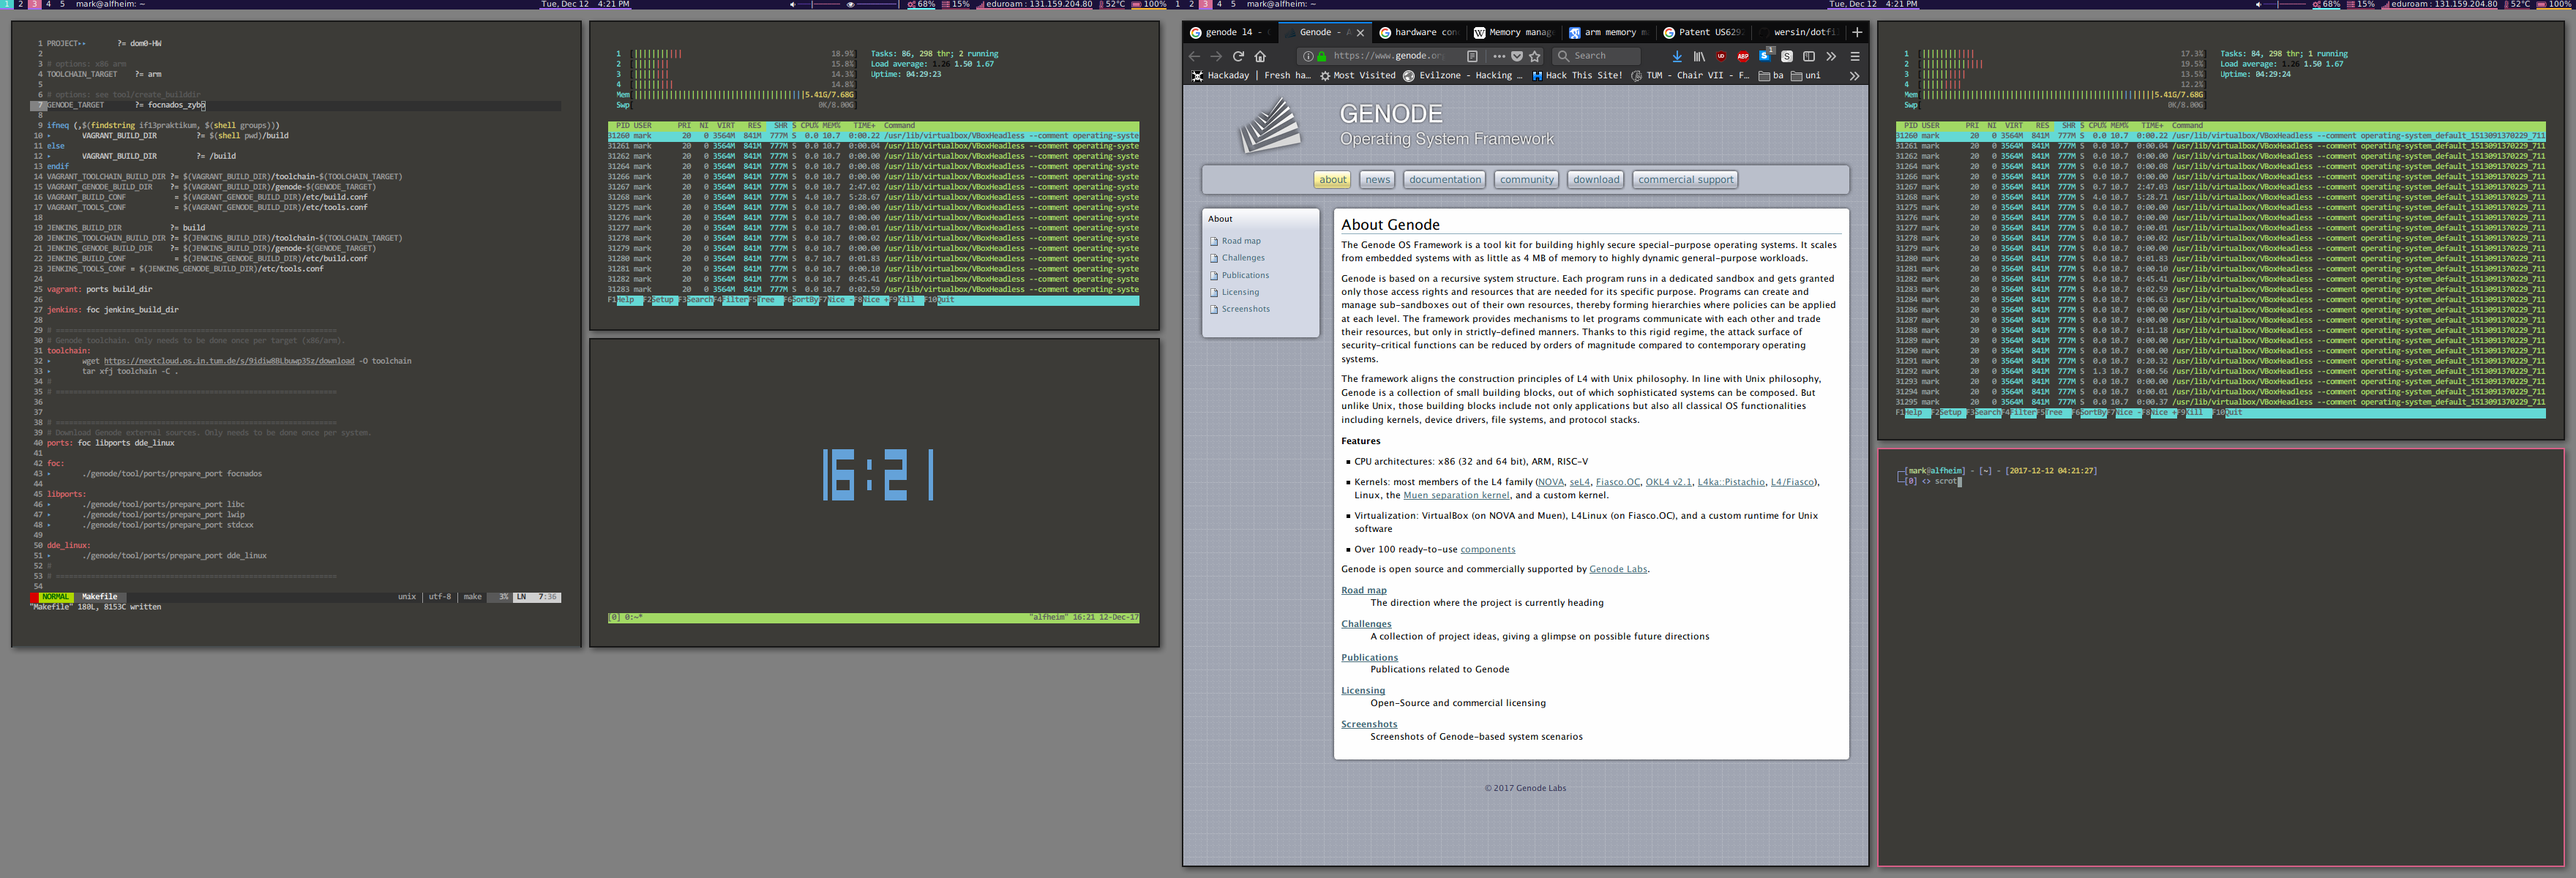
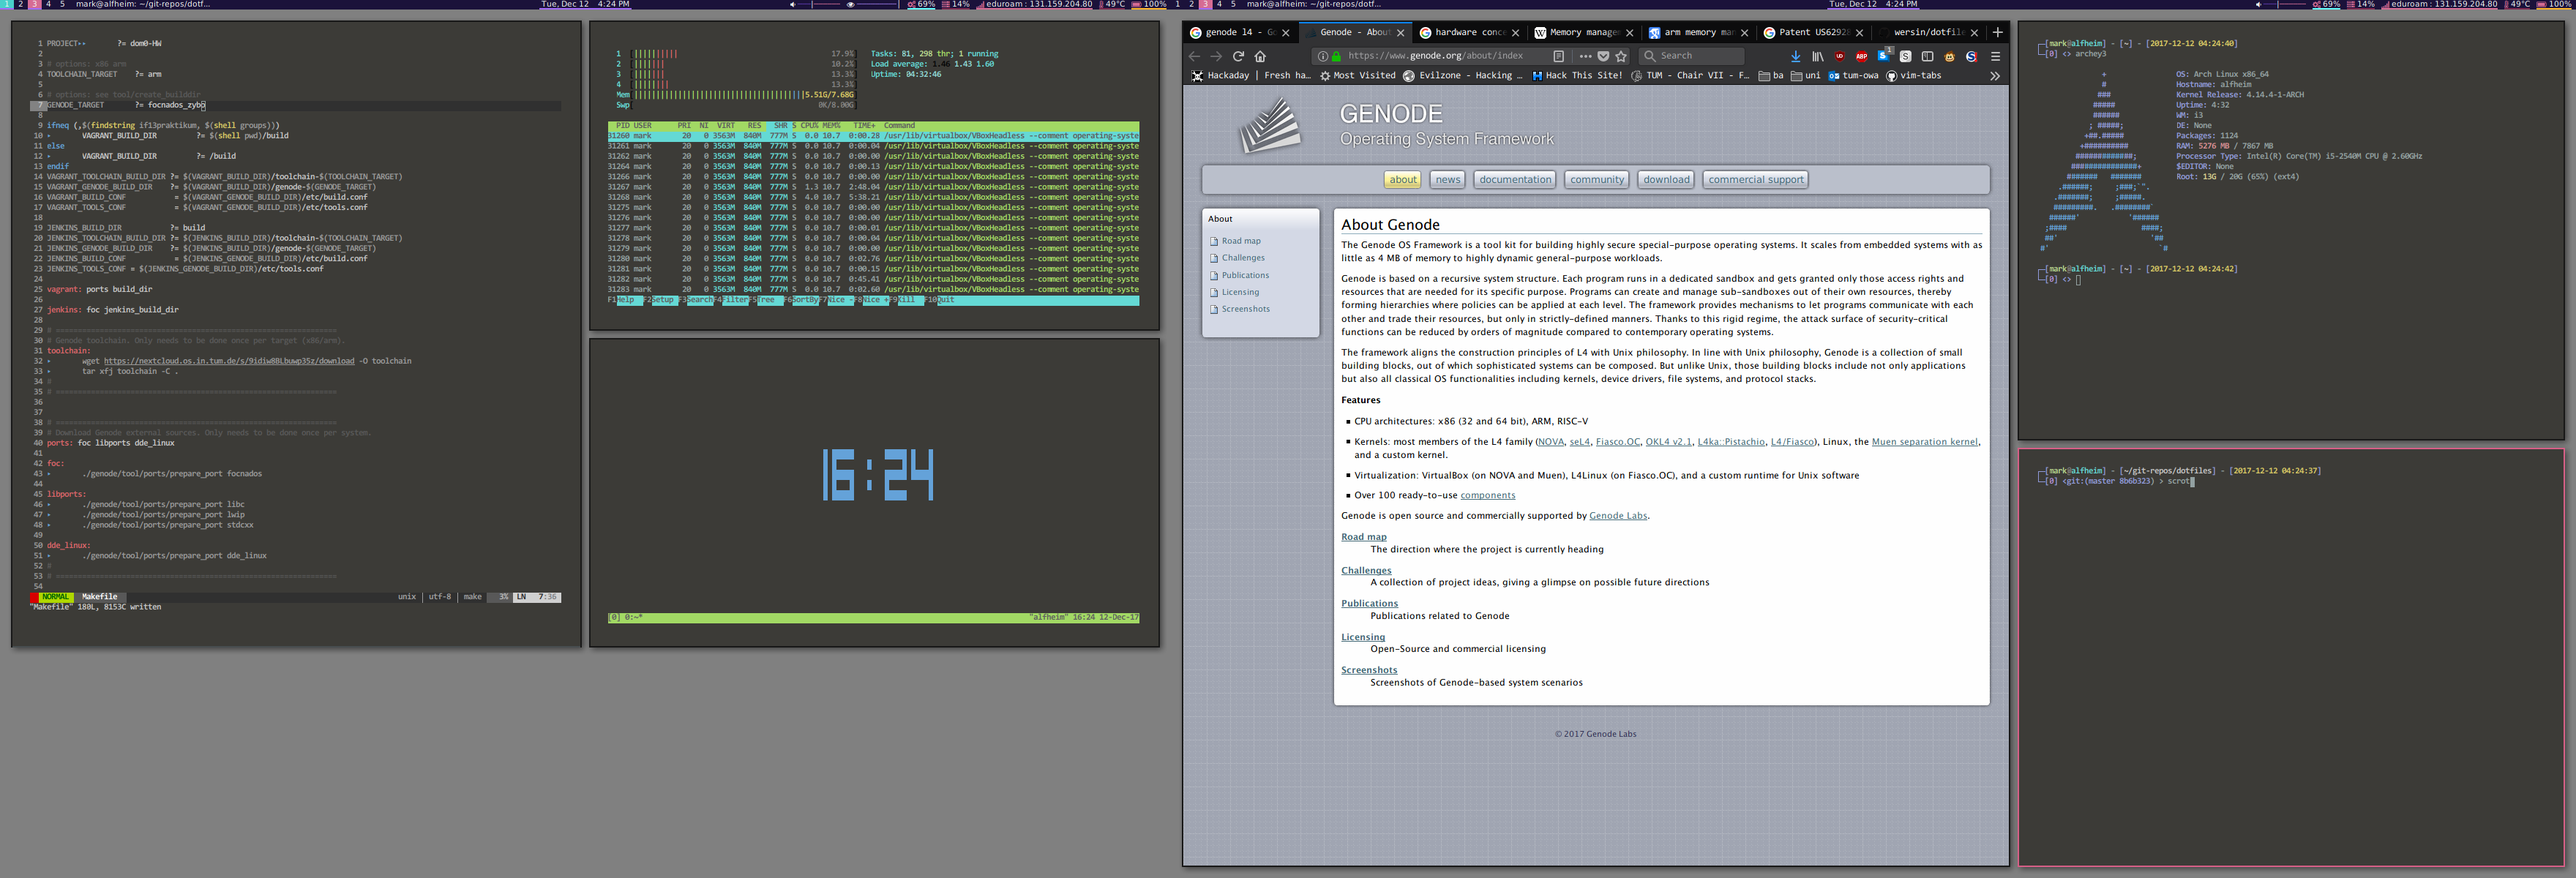
update scrot and readme

Changed region(s): [[0.5, 0.0, 1.0, 0.9867], [0.3438, 0.5242, 0.375, 0.555]]

diff --git a/README.md b/README.md
@@ -1,5 +1,5 @@
 # dotfiles
-these are some of the dotfiles for my setup i am currently using, as for now (02.02.2017)
+these are some of the dotfiles for my setup i am currently using, as for now (12.12.2017)
 
 some helpful sites for terminal customization:
 
@@ -9,4 +9,4 @@ some helpful sites for terminal customization:
 
 [.bashrc made easy](http://bashrcgenerator.com/)
 
-![Alt Tag](https://github.com/wersin/dotfiles/blob/master/scrot.png "screenshot 02.02.2017")
+![Alt Tag](https://github.com/wersin/dotfiles/blob/master/scrot.png "screenshot 12.12.2017")
